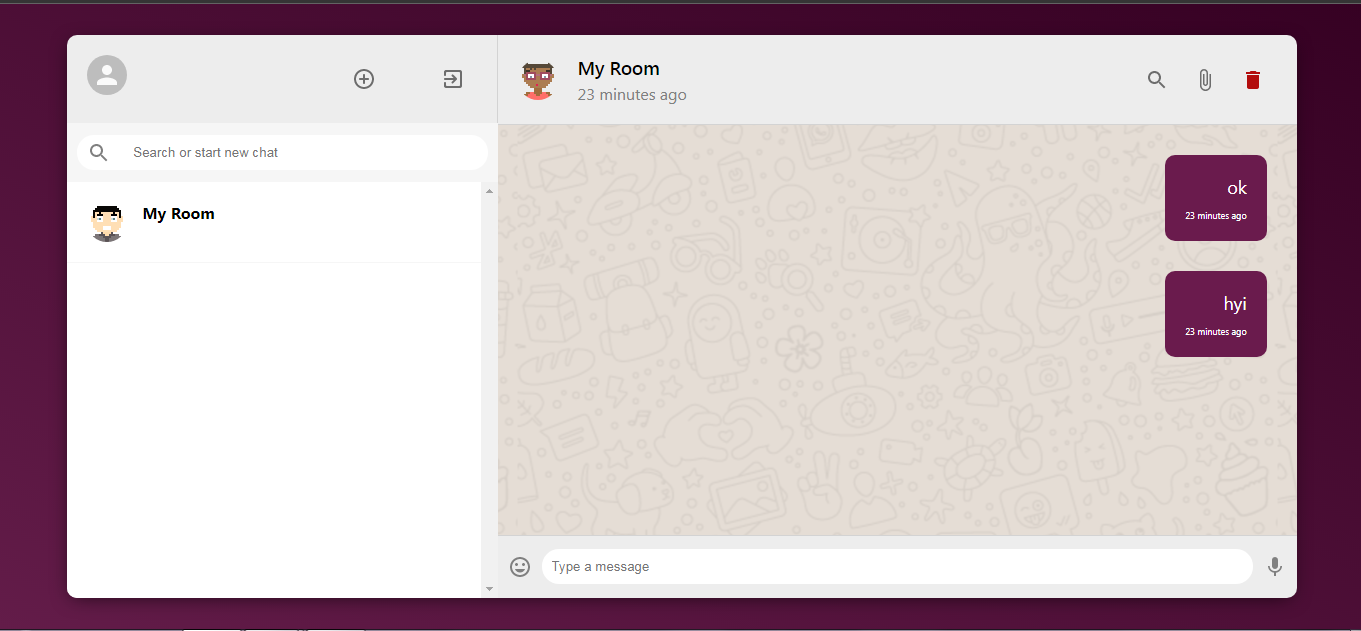
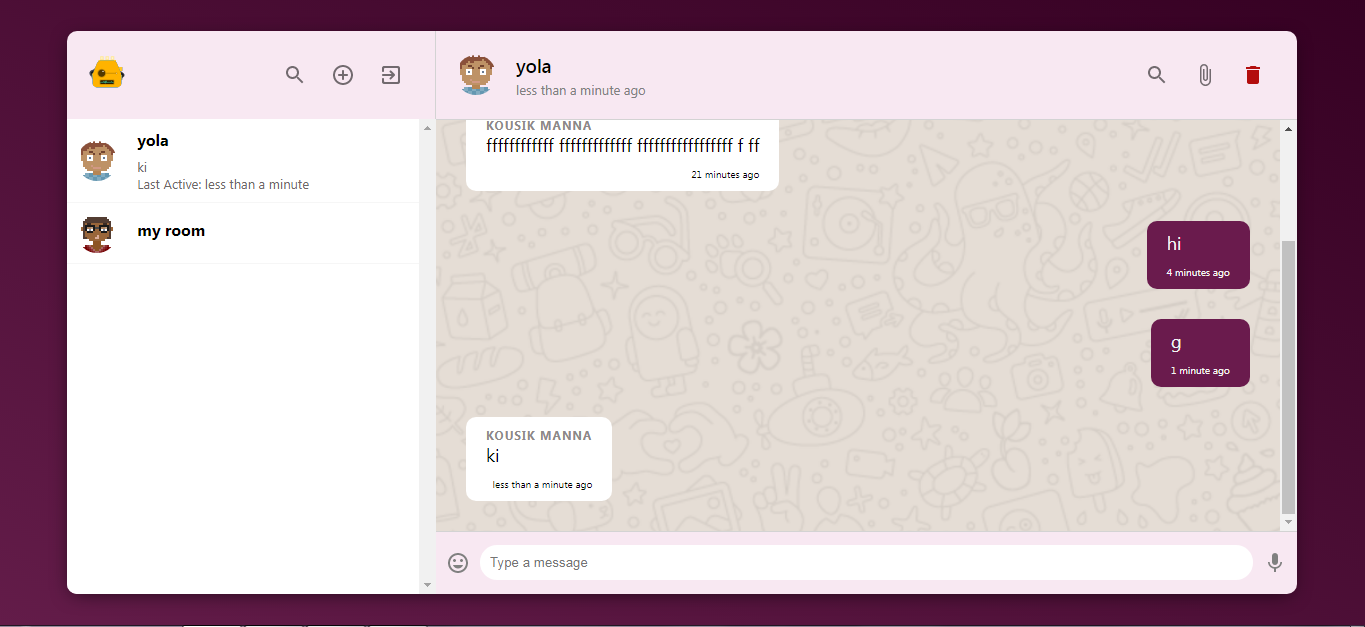
modify  ui

diff --git a/src/components/SidebarChat.js b/src/components/SidebarChat.js
@@ -1,15 +1,15 @@
-import { useEffect, useState } from 'react';
+import { useState } from 'react';
 import { useQuery, useSubscription } from '@apollo/client';
 import { GET_MESSAGES } from '../graphql/queries';
 import { NEW_MESSAGE } from '../graphql/subscriptions';
 import { Link } from 'react-router-dom';
+import { formatDistance } from 'date-fns';
 
 import { Avatar } from '@material-ui/core';
 
 import './SidebarChat.css';
 
 function SidebarChat({ id, name }) {
-  const [seed, setSeed] = useState('');
   const [messages, setMessages] = useState([]);
 
   useQuery(GET_MESSAGES, {
@@ -28,17 +28,32 @@ function SidebarChat({ id, name }) {
     }
   });
 
-  useEffect(() => {
-    setSeed(Math.floor(Math.random() * 5000));
-  }, []);
+  function truncateString(str, num) {
+    if (str.length > num) {
+      return str.slice(0, num) + '...';
+    } else {
+      return str;
+    }
+  }
 
   return (
     <Link to={`/room/${id}`}>
       <div className="sidebarChat">
-        <Avatar src={`https://avatars.dicebear.com/api/human/${seed}.svg`} />
+        <Avatar src={`https://avatars.dicebear.com/api/human/${id}.svg`} />
         <div className="sidebarChat__info">
           <h2>{name}</h2>
-          <p>{messages[messages.length - 1]?.message}</p>
+          <p className="sidebarChat__seen">
+            {messages[messages.length - 1]?.message &&
+              truncateString(messages[messages.length - 1]?.message, 25)}
+          </p>
+          <p className="sidebarChat__seen">
+            {+messages[messages?.length - 1]?.createdAt
+              ? `Last Active: ${formatDistance(
+                  new Date(+messages[messages?.length - 1]?.createdAt),
+                  Date.now()
+                )}`
+              : ''}
+          </p>
         </div>
       </div>
     </Link>

diff --git a/src/components/Sidebar.js b/src/components/Sidebar.js
@@ -20,7 +20,6 @@ function Sidebar() {
   const [rooms, setRooms] = useState([]);
 
   const [{ user }, dispatch] = useAuth();
-
   const history = useHistory();
 
   const [addRoom] = useMutation(CREATE_ROOM);
@@ -56,8 +55,15 @@ function Sidebar() {
   return (
     <div className="sidebar">
       <div className="sidebar__header">
-        <Avatar alt={user?.name} src={user?.photoURL} />
+        <Avatar
+          alt={user?.name}
+          src={`https://avatars.dicebear.com/api/bottts/${user?.name}.svg`}
+        />
+
         <div className="sidebar__headerRight">
+          <IconButton>
+            <SearchOutlinedIcon />
+          </IconButton>
           <IconButton onClick={createRoom}>
             <AddCircleOutlineRoundedIcon />
           </IconButton>
@@ -71,12 +77,7 @@ function Sidebar() {
           </IconButton>
         </div>
       </div>
-      <div className="sidebar__search">
-        <div className="sidebar__searchContainer">
-          <SearchOutlinedIcon />
-          <input placeholder="Search or start new chat" type="text" />
-        </div>
-      </div>
+
       <div className="sidebar__chats">
         {rooms.map((room) => (
           <SidebarChat key={room.id} id={room.id} name={room.name} />

diff --git a/src/components/Chat.js b/src/components/Chat.js
@@ -1,4 +1,4 @@
-import { useEffect, useState } from 'react';
+import { useState } from 'react';
 import { useParams, useHistory } from 'react-router-dom';
 import { formatDistance } from 'date-fns';
 import { useMutation, useQuery, useSubscription } from '@apollo/client';
@@ -17,7 +17,6 @@ import MicIcon from '@material-ui/icons/Mic';
 import './Chat.css';
 
 function Chat() {
-  const [seed, setSeed] = useState('');
   const [input, setInput] = useState('');
   const [roomName, setRoomName] = useState('');
   const [messages, setMessages] = useState([]);
@@ -27,10 +26,6 @@ function Chat() {
 
   const { roomId } = useParams();
   const history = useHistory();
-
-  useEffect(() => {
-    setSeed(Math.floor(Math.random() * 5000));
-  }, [roomId]);
 
   useQuery(ROOM, {
     variables: { id: roomId },
@@ -77,7 +72,7 @@ function Chat() {
   return (
     <div className="chat">
       <div className="chat__header">
-        <Avatar src={`https://avatars.dicebear.com/api/human/${seed}.svg`} />
+        <Avatar src={`https://avatars.dicebear.com/api/human/${roomId}.svg`} />
         <div className="chat__headerInfo">
           <h3>{roomName}</h3>
           <p>

diff --git a/src/components/Sidebar.css b/src/components/Sidebar.css
@@ -1,35 +1,7 @@
 .sidebar {
   display: flex;
   flex-direction: column;
-  flex: 0.35;
-}
-
-.sidebar__search {
-  display: flex;
-  align-items: center;
-  background-color: #f6f6f6;
-  height: 39px;
-  padding: 10px;
-}
-
-.sidebar__searchContainer {
-  display: flex;
-  align-items: center;
-  background-color: white;
-  width: 100%;
-  height: 35px;
-  border-radius: 20px;
-}
-
-.sidebar__searchContainer > .MuiSvgIcon-root {
-  color: gray;
-  padding: 10px;
-}
-
-.sidebar__searchContainer > input {
-  border: none;
-  outline-width: 0;
-  margin-left: 10px;
+  flex: 0.3;
 }
 
 .sidebar__header {

diff --git a/src/components/Message.css b/src/components/Message.css
@@ -3,18 +3,18 @@
   flex-direction: column;
   font-size: 18px;
   text-align: left;
-  padding: 20px;
+  padding: 10px 20px;
   margin: 30px;
   background-color: white;
   width: fit-content;
   border-radius: 10px;
+  max-width: 30vw;
 }
 
 .message__receiver {
-  text-align: right;
   margin-left: auto;
   background-color: #6a1b4d;
-  color: #fff;
+  color: whitesmoke;
 }
 
 .message__name {
@@ -32,5 +32,5 @@
 .message__timestamp {
   text-align: right;
   margin-top: 10px;
-  font-size: xx-small;
+  font-size: x-small;
 }

diff --git a/src/components/Chat.css b/src/components/Chat.css
@@ -1,5 +1,5 @@
 .chat {
-  flex: 0.65;
+  flex: 0.7;
   display: flex;
   flex-direction: column;
 }
@@ -23,6 +23,7 @@
 
 .chat__headerInfo > p {
   color: gray;
+  font-size: small;
 }
 
 .chat__headerRight {
@@ -40,6 +41,7 @@
   background-image: url('https://user-images.githubusercontent.com/15075759/28719144-86dc0f70-73b1-11e7-911d-60d70fcded21.png');
   background-repeat: repeat;
   background-position: center;
+  background-size: 100%;
 
   overflow-y: scroll;
 }

diff --git a/src/components/SidebarChat.css b/src/components/SidebarChat.css
@@ -1,6 +1,7 @@
 .sidebarChat {
   display: flex;
-  padding: 20px;
+  align-items: center;
+  padding: 10px;
   cursor: pointer;
   border-bottom: 1px solid #f6f6f6;
 }
@@ -20,5 +21,10 @@ a {
 }
 
 .sidebarChat__info {
-  margin-left: 15px;
+  margin-left: 20px;
+}
+
+.sidebarChat__seen {
+  font-size: small;
+  color: #6d6767;
 }

diff --git a/src/App.css b/src/App.css
@@ -7,7 +7,7 @@
 
 .app__body {
   display: flex;
-  background-color: #ededed;
+  background-color: #f8e8f2;
   border-radius: 10px;
   height: 90vh;
   width: 90vw;
